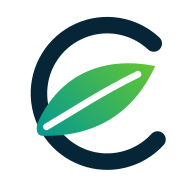
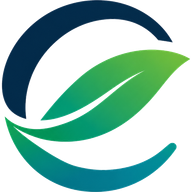
Use selected EAVESENCE mark across brand assets

diff --git a/src/components/Header.tsx b/src/components/Header.tsx
@@ -1,5 +1,6 @@
 "use client";
 
+import Image from "next/image";
 import Link from "next/link";
 import { usePathname } from "next/navigation";
 import { useState, type MouseEvent } from "react";
@@ -44,47 +45,22 @@ const navigation = {
 function EAVESENCELogo() {
   return (
     <div className="flex items-center gap-2.5">
-      <svg
-        viewBox="0 0 256 256"
-        aria-hidden="true"
+      <Image
+        src="/brand/eavesence-header-mark.png"
+        alt=""
+        width={40}
+        height={40}
         className="h-10 w-10 shrink-0"
-      >
-        <defs>
-          <linearGradient
-            id="eavesence-leaf"
-            x1="70"
-            y1="190"
-            x2="198"
-            y2="70"
-            gradientUnits="userSpaceOnUse"
-          >
-            <stop offset="0" stopColor="#079b8d" />
-            <stop offset="1" stopColor="#66c72f" />
-          </linearGradient>
-        </defs>
+        priority
+      />
 
-        <path
-          d="M205 58A91 91 0 1 0 210 186"
-          fill="none"
-          stroke="#062638"
-          strokeWidth="22"
-          strokeLinecap="round"
-        />
-        <path
-          d="M50 164C81 96 141 75 207 88C180 147 131 183 56 181C51 181 47 176 50 164Z"
-          fill="url(#eavesence-leaf)"
-        />
-        <path
-          d="M62 169C101 146 135 123 184 99"
-          fill="none"
-          stroke="white"
-          strokeWidth="9"
-          strokeLinecap="round"
-        />
-      </svg>
-
-      <span className="text-xl font-extrabold tracking-[-0.045em] text-slate-950 sm:text-[1.35rem]">
-        EAVESENCE
+      <span className="flex items-baseline gap-2">
+        <span className="text-xl font-extrabold tracking-[-0.045em] text-slate-950 sm:text-[1.35rem]">
+          EAVESENCE
+        </span>
+        <span className="text-[8px] font-extrabold uppercase leading-none tracking-[0.12em] text-green-700 sm:text-[9px] sm:tracking-[0.14em]">
+          Energy
+        </span>
       </span>
     </div>
   );
@@ -157,9 +133,6 @@ export default function Header({
               <EAVESENCELogo />
             </Link>
 
-            <span className="ml-1.5 mt-[10px] inline-flex text-[8px] font-extrabold uppercase leading-none tracking-[0.12em] text-green-700 sm:ml-2 sm:text-[9px] sm:tracking-[0.14em]">
-              Energy
-            </span>
           </div>
 
           {/* Desktop Navigation */}
